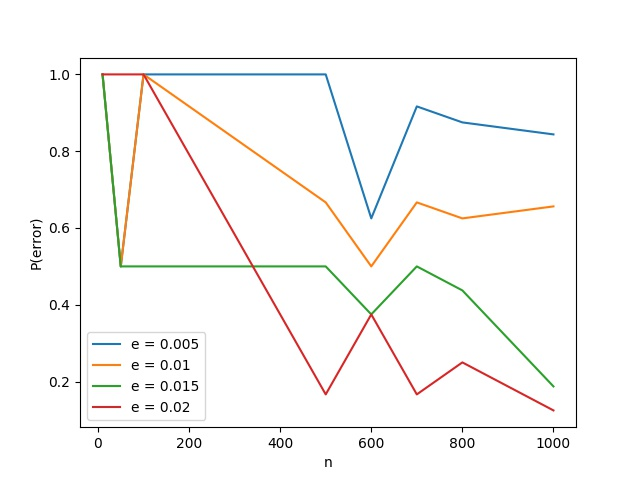
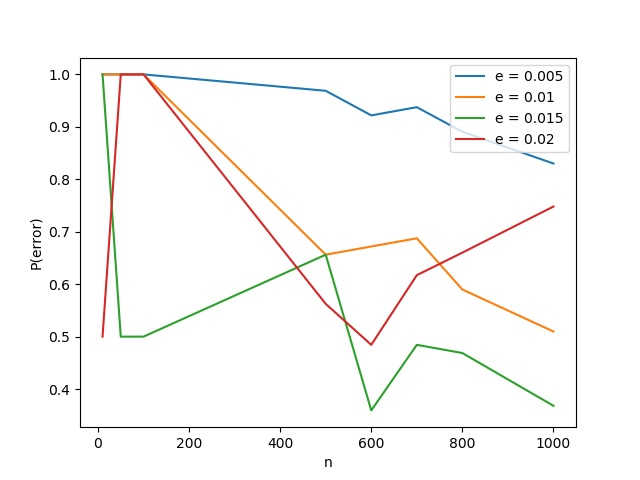
average of 2 runs

diff --git a/jointTypicality.py b/jointTypicality.py
@@ -6,25 +6,10 @@ class Channel:
 		self.transitionProbability = p
 
 	def transmit(self, inp):
-		# x = np.random.uniform(low = 0.0, high = 1.0)
-		# # print x
-		# if(x<=self.transitionProbability):
-		# 	# if(inp==1):
-		# 	# 	return 0
-		# 	# else:
-		# 	# 	return 1
-		# 	return inp ^ 1
-
-		# else:
-		# 	return inp
 		x = np.random.binomial(1, self.transitionProbability, 1)
 		return inp^x
 
 	def transmitSeq(self, inp):
-		# out = []
-		# for i in range(len(inp)):
-		# 	out.append(self.transmit(inp[i]))
-		# return out
 		x = np.random.binomial(1, self.transitionProbability, len(inp))
 		return inp^x
 
@@ -63,14 +48,6 @@ class Channel:
 		return (1-Hp)
 
 def getInputSeq(px1, length):
-	# inp = []
-	# for i in range(length):
-	# 	x = np.random.uniform(low = 0.0, high = 1.0)
-	# 	if(x<=px1):
-	# 		inp.append(1)
-	# 	else:
-	# 		inp.append(0)
-	# return inp
 	return np.random.binomial(1, px1, length)
 
 def getEntropy(seq):
@@ -87,9 +64,6 @@ def getEntropy(seq):
 def jointTypicality(xn, yn, e, px1, p, Hx, Hxy, j):
 	n = len(xn)
 	sx = sum(xn)	
-	# pxn = [math.pow(px1, sx), math.pow((1-px1), n-sx)]
-	# pxnl = [-(math.log(pxn[i], 2))/n for i in range(2)]
-	# pxn = sum(pxnl)
 	pxn = (sx*math.log(px1, 2) + (n-sx)*math.log(1-px1, 2))/n
 	px = abs(-pxn - Hx)<e
 	if(not px):
@@ -97,22 +71,13 @@ def jointTypicality(xn, yn, e, px1, p, Hx, Hxy, j):
 
 	s = sum(([xn[i]==yn[i] for i in range(len(xn))])*1)
 
-	# pxnyn = [math.pow((1-p), s), math.pow(p, (n-s)), math.pow(px1, sx), math.pow((1-px1), (n-sx))]
-	# pxnynl = [-(math.log(pxnyn[i], 2))/n for i in range(4)]
-	# pxnyn = sum(pxnynl)
 	pxnyn = (s*math.log(1-p, 2) + (n-s)*math.log(p, 2) + sx*math.log(px1, 2) + (n-sx)*math.log(1-px1, 2))/n
 	pxy = abs(-pxnyn - Hxy) < e
-	# print abs(-(math.log(pxnyn, 2))/n - Hxy), e
-	# print ".",
-	# print j, pxnyn, Hxy
 	return pxy
 
 
 def decode(codeBook, yn, e, px1, py1, p, Hx, Hy, Hxy):
 	sy = sum(yn)
-	# pyn = [math.pow(py1, sum(yn)), math.pow((1-py1), n-sum(yn))]
-	# pynl = [-(math.log(pyn[i], 2))/n for i in range(2)]
-	# pyn = sum(pynl)
 	pyn = (sy*math.log(py1, 2) + (n-sy)*math.log(1-py1, 2))/n
 	py = abs(-pyn - Hy)<e
 	if(not py):
@@ -144,7 +109,6 @@ px1 = 0.6
 py1 = px1*(1-channel.transitionProbability) + (1-px1)*channel.transitionProbability
 p = channel.transitionProbability
 eList = [0.005, 0.01, 0.015, 0.02]
-# eList = [0.009, 0.0095, 0.01]
 Hx = -px1*math.log(px1, 2) - (1-px1)*math.log((1-px1), 2)
 Hy = -py1*math.log(py1, 2) - (1-py1)*math.log((1-py1), 2)
 Hygivenx0 = -p*math.log(p, 2) - (1-p)*math.log(1-p, 2)
@@ -153,7 +117,8 @@ Hygivenx = px1*Hygivenx1 + (1-px1)*Hygivenx0
 Hxy = Hx + Hygivenx
 
 for e in eList:
-	probOfError = []
+	probOfError1 = []
+	probOfError2 = []
 	for n in nList:
 		print "n = ", n
 		codeBook = []
@@ -176,14 +141,37 @@ for e in eList:
 			ihat = decode(codeBook, output[i], e, px1, py1, p, Hx, Hy, Hxy)
 			if(ihat == i):
 				corr +=1
-		probOfError.append(1-(corr+0.)/len(output))	
+		probOfError1.append(1-(corr+0.)/len(output))	
 		print "		Output decoded"
+	for n in nList:
+		print "n = ", n
+		codeBook = []
+		for i in range (int(math.ceil(math.pow(2, n*R)))):
+			codeBook.append(getInputSeq(px1, n))
+		print len(codeBook)
+		output = []
+
+		for i in range(len(codeBook)):
+			output.append(channel.transmitSeq(codeBook[i]))
+		print "		output recieved"
+
+
+		corr = 0
+		corrpy = 0
+		corrjt = 0
+		for i in range(len(output)):
+			if((i+1)%200==0):
+				print "		", i+1 ," decoded"
+			ihat = decode(codeBook, output[i], e, px1, py1, p, Hx, Hy, Hxy)
+			if(ihat == i):
+				corr +=1
+		probOfError2.append(1-(corr+0.)/len(output))	
+		print "		Output decoded"
+	probOfError = [(probOfError1[u] + probOfError2[u])/2 for u in range(len(probOfError1))]
 	print e
 	print nList
 	print probOfError
 	plt.plot(nList, probOfError)
-# plt.ylabel("Pe")
-# plt.xlabel("n")
 plt.ylabel("P(error)")
 plt.xlabel("n")
 plt.legend(["e = "+str(eList[0]), "e = "+str(eList[1]), "e = "+str(eList[2]), "e = "+str(eList[3])])#, "e = "+str(eList[4]), "e = "+str(eList[5])])
